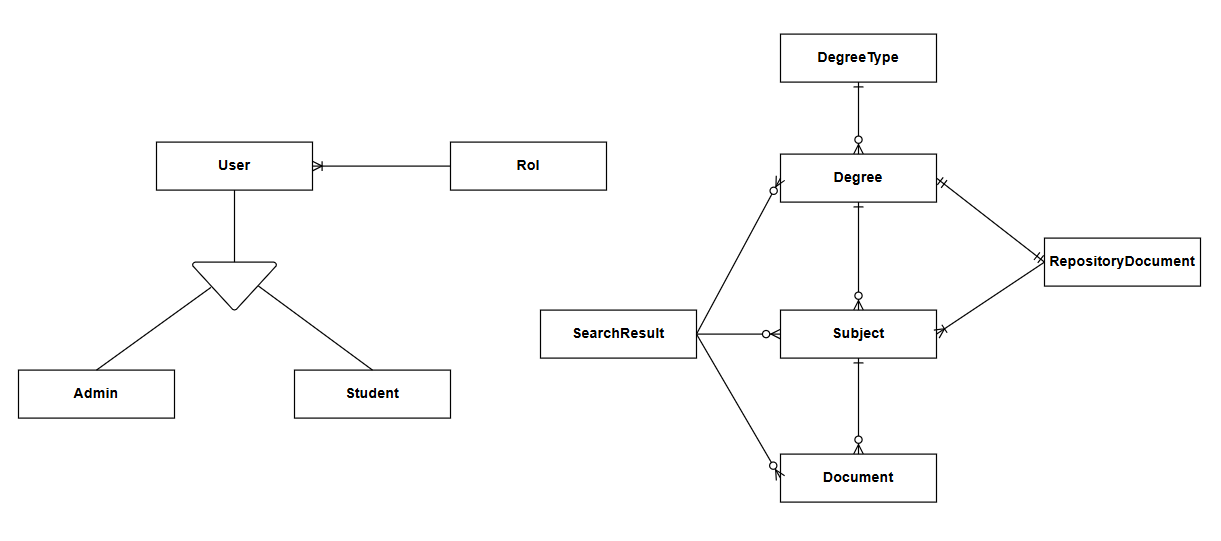
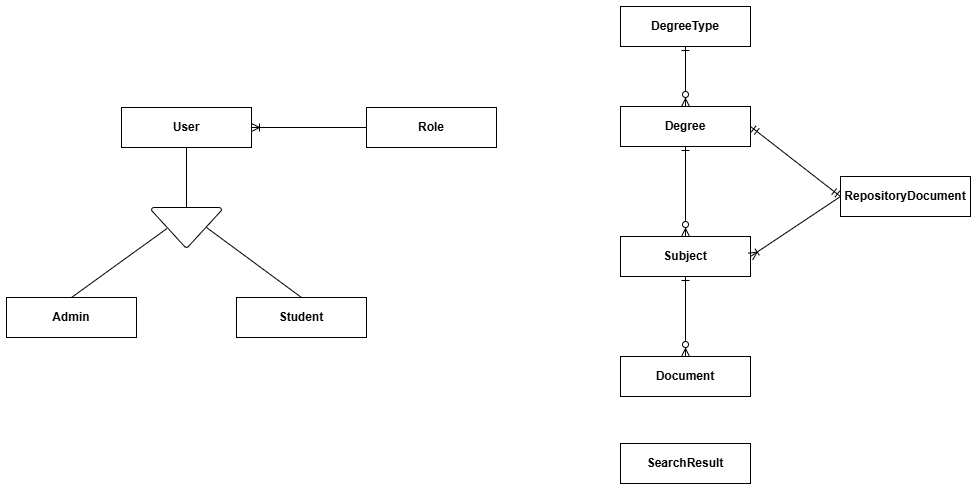
documentation

diff --git a/README.md b/README.md
@@ -13,6 +13,8 @@
 
 ## [Crear credenciales para Google Drive](https://medium.com/@javiisalaas97/creaci%C3%B3n-de-credenciales-para-google-drive-api-c92acd46848c)
 
+## [Cómo generar una contraseña de aplicación en Gmail](https://medium.com/@javiisalaas97/c%C3%B3mo-generar-una-contrase%C3%B1a-de-aplicaci%C3%B3n-en-gmail-03b11055f5bd)
+
 ## Wireframe de pantallas y navegación
 
 ![Wireframe](images/Diseño.png)
@@ -122,6 +124,10 @@ Popup que permite subir una nueva imagen de perfil.
 
 ![Diagrama de clases frontend SPA](images/frontend.png)
 
+### Diagrama de flujo de la arquitectura Cloud
+
+![Diagrama de flujo de la arquitectura Cloud](images/cloud.png)
+
 ### Construcción de la imagen Docker
 
 Para construir la imagen docker de SnapStudy debemos seguir los siguientes pasos:
@@ -171,62 +177,31 @@ https://github.com/codeurjc-students/2024-snap-study.git
 
 3. Busca docker y ejecútalo
 
-4. SnapStudy cuenta con una versión simplificada de la aplicación que no dispone de todos los servicios cloud que usa la aplicación, pero tiene todas las funcionalidades básicas. Esta es la [versión 1.0.0](https://github.com/codeurjc-students/2024-snap-study/releases/tag/v1.0.0) Podemos elegir entre usar el servicio de AWS S3 para el almacenamiento de los archivos o MinIO en local.
+4. Previo al despliegue del primer stack, donde se crea la función Lambda, es necesario subir el código de esta en formato .zip a un bucket de S3. Para llevar a cabo este paso, primero debemos descargar el código implementado para esta función, el cual se encuentra en el repositorio SnapStudy-text-process-lambda. Una vez clonado el repositorio, se debe navegar al directorio correspondiente y ejecutar los siguientes comandos para preparar y empaquetar la función Lambda:
+```
+venv\Scripts\activate
+mkdir lambda_function
+cp lambda_code.py .\lambda_function\
+pip install PyPDF2 -t .\lambda_function\
+pip install typing_extensions -t .\lambda_function\
+pip install opensearch-py requests-aws4auth -t .\lambda_function\
+pip install pymysql -t .\lambda_function\
+cd .\lambda_function\
+zip -r ../lambda_code.zip .
+```
 
-5. Si deseas lanzar Snapstudy al completo, con todas sus funcionalidades y los servicios cloud que usa debes desplegar los templates de cloudformation infra.yaml y opensearch.yaml, este orden. Además, una vez creado el dominio de opensearch, tenemos que crear el índice donde indexaremos los documentos:
+Este ZIP generado debe alojarse en un bucket de S3 llamado snapstudy-artifacts.
+
+5. Para lanzar Snapstudy al completo, con todas sus funcionalidades y los servicios cloud que usa debes desplegar los templates de cloudformation infra.yaml y opensearch.yaml, este orden. Además, una vez creado el dominio de opensearch, tenemos que crear el índice donde indexaremos los documentos:
 ```
 awscurl -X PUT --service es --region eu-west-1 -H "Content-Type: application/json" -d "{\"settings\": {\"number_of_shards\": 1, \"number_of_replicas\": 1}}" <domain_endpoint>/snapstudy-index
 ```
 
-6. Una vez creada la infraestructura cloud, para que el backend de nuestra aplicación pueda hacer uso de los servicios de AWS debemos tener las credenciales de la cuenta de AWS a mano. Para ello planteo 2 opciones:
-   1. Modificar las siguientes variables de entorno con los valores proporcionados al crear nuestra cuenta y usuario de AWS:
-   ```
-   - AWS_ACCESS_KEY_ID=change_me
-   - AWS_SECRET_ACCESS_KEY=change_me
-   ```
+6. Para poder usar el servicio de Google Drive integrado en SnapStudy, debemos cargar el archivo "credentials.json", el cual contendrá las credenciales para poder usar el cliente de Google Drive para el volcado de documentos a Drive. Para hacernos con este archivo de credenciales podemos seguir el siguente [post](https://medium.com/@javiisalaas97/creaci%C3%B3n-de-credenciales-para-google-drive-api-c92acd46848c)
+Otro paso importante para poder usar correctamente el servicio de Google Drive es generar una contraseña de aplicación. Puedes seguir los pasos en el siguiente [post](https://medium.com/@javiisalaas97/c%C3%B3mo-generar-una-contrase%C3%B1a-de-aplicaci%C3%B3n-en-gmail-03b11055f5bd)
 
-   2. Añadir al template docker-compose.yml la siguiente variable de entorno y el siguiente volumen. Se deben añadir en las secciones 'environment' y 'volumes' ya existentes:
-   ```
-   environment:
-     - AWS_PROFILE=change_me
-   volumes:
-     - ~/.aws:/root/.aws
-   ```
-
-7. Para que la aplicación use AWS RDS, tenemos que sustituir en el archivo docker-compose.yml las siguientes variables:
+7. 
+El despliegue de la aplicación en una instancia de AWS EC2 se realiza a través del template de CloudFormation ec2.yaml. Esta plantilla crea una instancia EC2 basada en una AMI de Amazon Linux 2023. La plantilla configura automáticamente el entorno necesario para arrancar la aplicación, pero requiere que el archivo de credenciales de Google Drive se añaada manualmente a un bucket de S3. Una vez completado el despliegue del stack, tras unos minutos, se podrá acceder a SnapStudy mediante la dirección IP pública de la instancia EC2, a través del puerto 8443.
 ```
-- DB_URL=change_me
-- DB_USER=change_me
-- DB_PASSWORD=change_me
+https://<IP_PUBLICA_EC2>:
 ```
-Además debemos importar a la base de datos el archivo backup.sql que encontramos en el repositorio. Este archivo contiene datos básicos de ejemplo para un primer arranque de la aplicación. Para subir el archivo a RDS ejecutamos el siguiente comando:
-```
-mysql -h tu_endpoint_rds.amazonaws.com -u tu_usuario -p < backup.sql
-```
-
-8. Otra modificación que debemos hacer es añadir el endpoint que se ha creado con nuestra instancia de opensearch:
-```
-- AWS_OPENSEARCH_ENDPOINT=change_me
-```
-
-9. Para poder usar el servicio de Google Drive integrado en SnapStudy, debemos cargar el archivo "credentials.json", el cual contendrá las credenciales para poder usar el cliente de Google Drive para el volcado de documentos a Drive. Para hacernos con este archivo de credenciales podemos seguir el siguente [post](https://medium.com/@javiisalaas97/creaci%C3%B3n-de-credenciales-para-google-drive-api-c92acd46848c)
-Otro paso importante para poder usar correctamente el servicio de Google Drive es generar una contraseña de aplicación. Puedes seguir los pasos en el siguiente [post]()
-Además, en el archivo docker-compose.yaml debemos asignar el valor correspondiente a las siguientes variables de entorno:
-```
-- GOOGLE_DRIVE_FOLDER=change_me #En tu unidad de Google Drive deberás crear una carpeta donde se van a almacenar todas las carpetas de los usuarios de SnapStudy (https://drive.google.com/drive/u/3/folders/{ID})
-- APPLICATION_MAIL=change_me #Email desde el cual se va a gestionar Google Drive y el que hemos usado para generar las credenciales
-- APPLICATION_PASS_MAIL=change_me #Contraseña de aplicación
-- CREDENTIALS_FILE_PATH=change_me #Path dónde coloques el archivo de credenciales
-```
-
-10. Navegar hasta el directorio "docker" dentro del proyecto
-```
-cd 2024-snap-study/docker
-```
-
-11. Ejecuta el comando
-```
-docker-compose up
-```
-
-12. Una vez finalizado el paso anterior, abre un navegador y busca [https://localhost:8443](https://localhost:8443)
